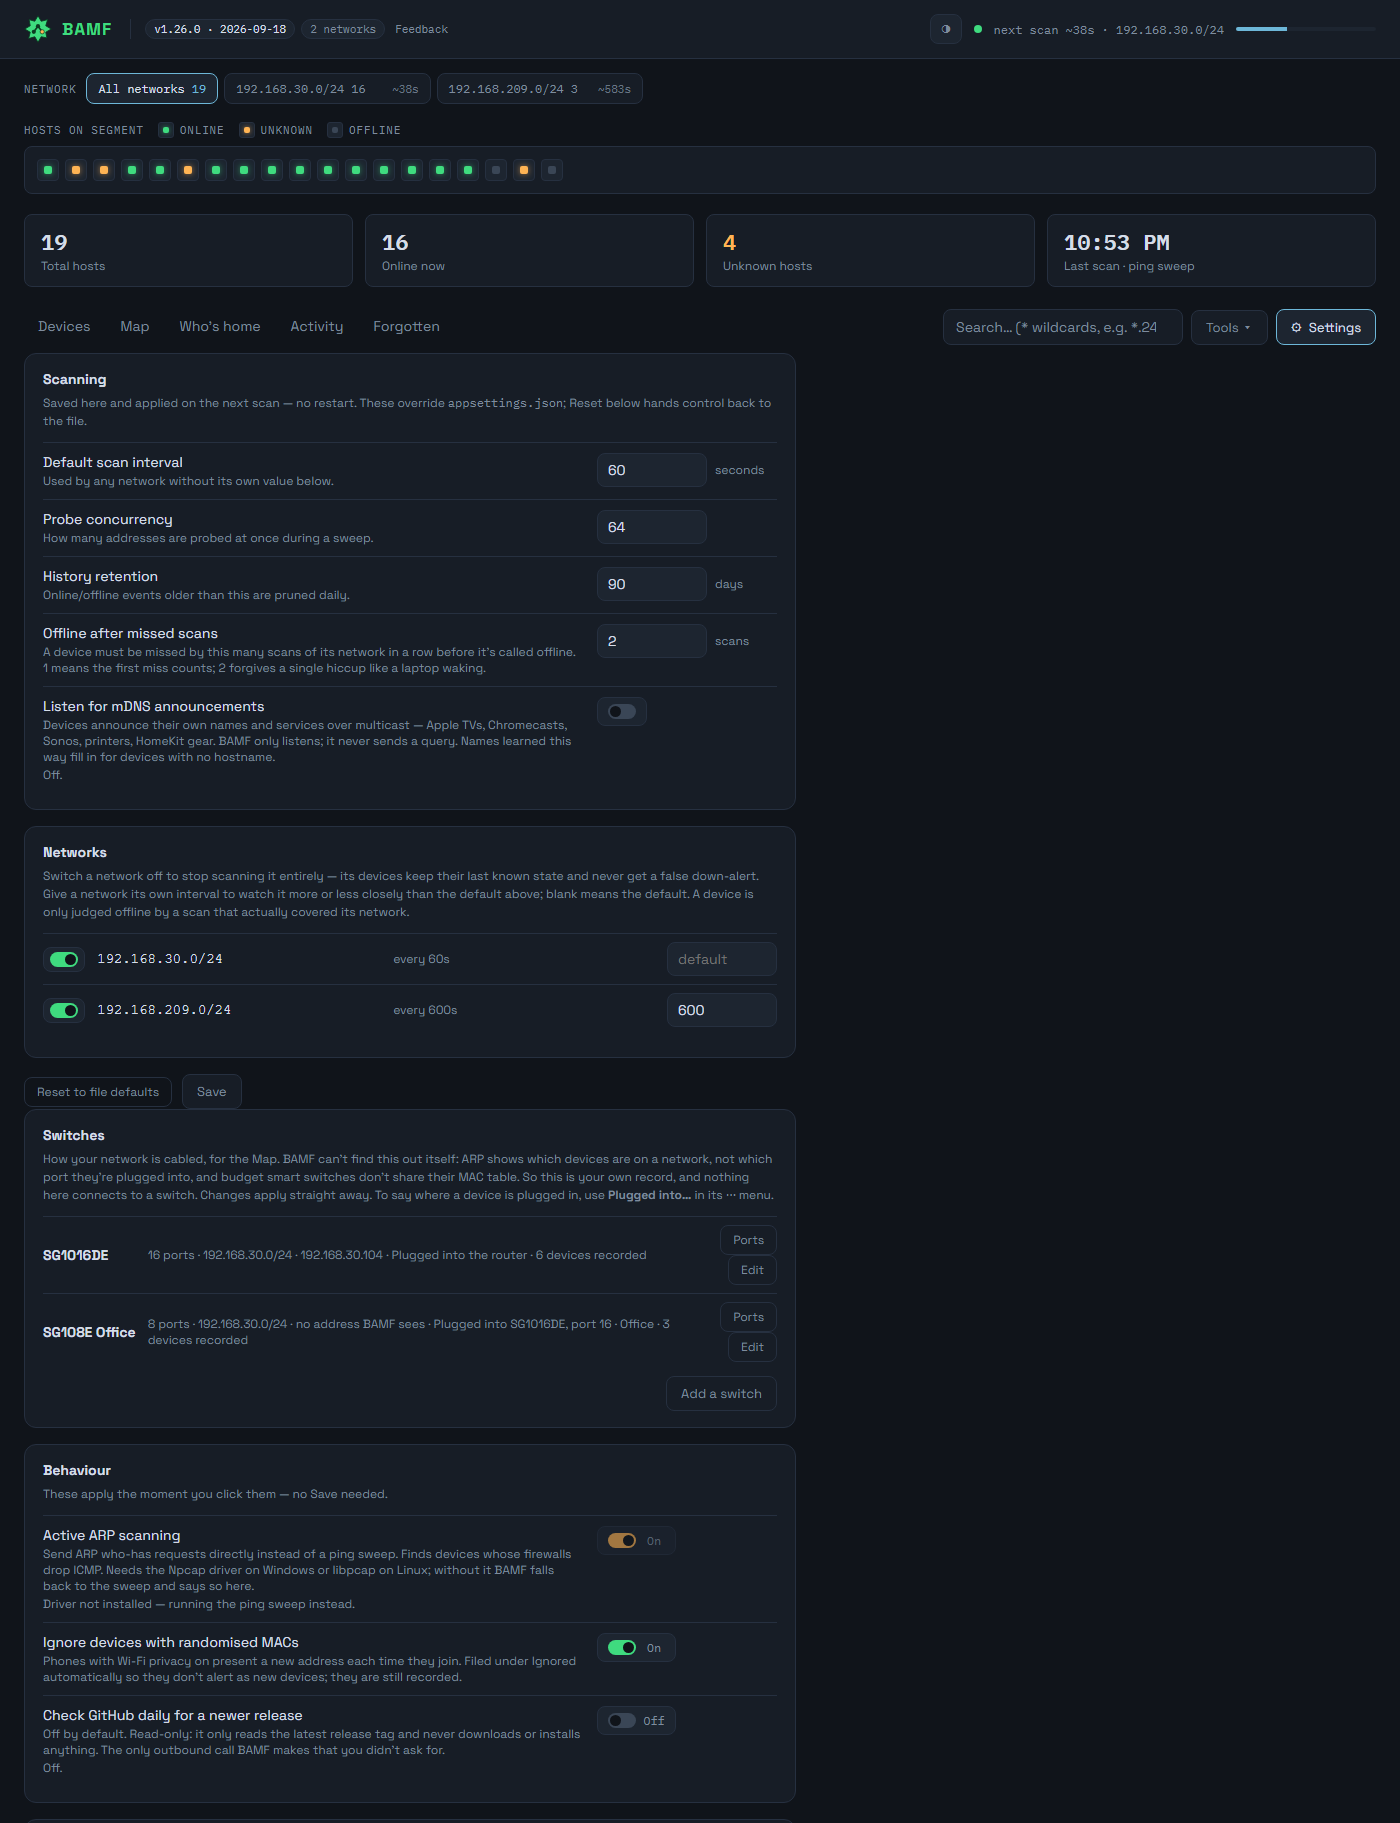
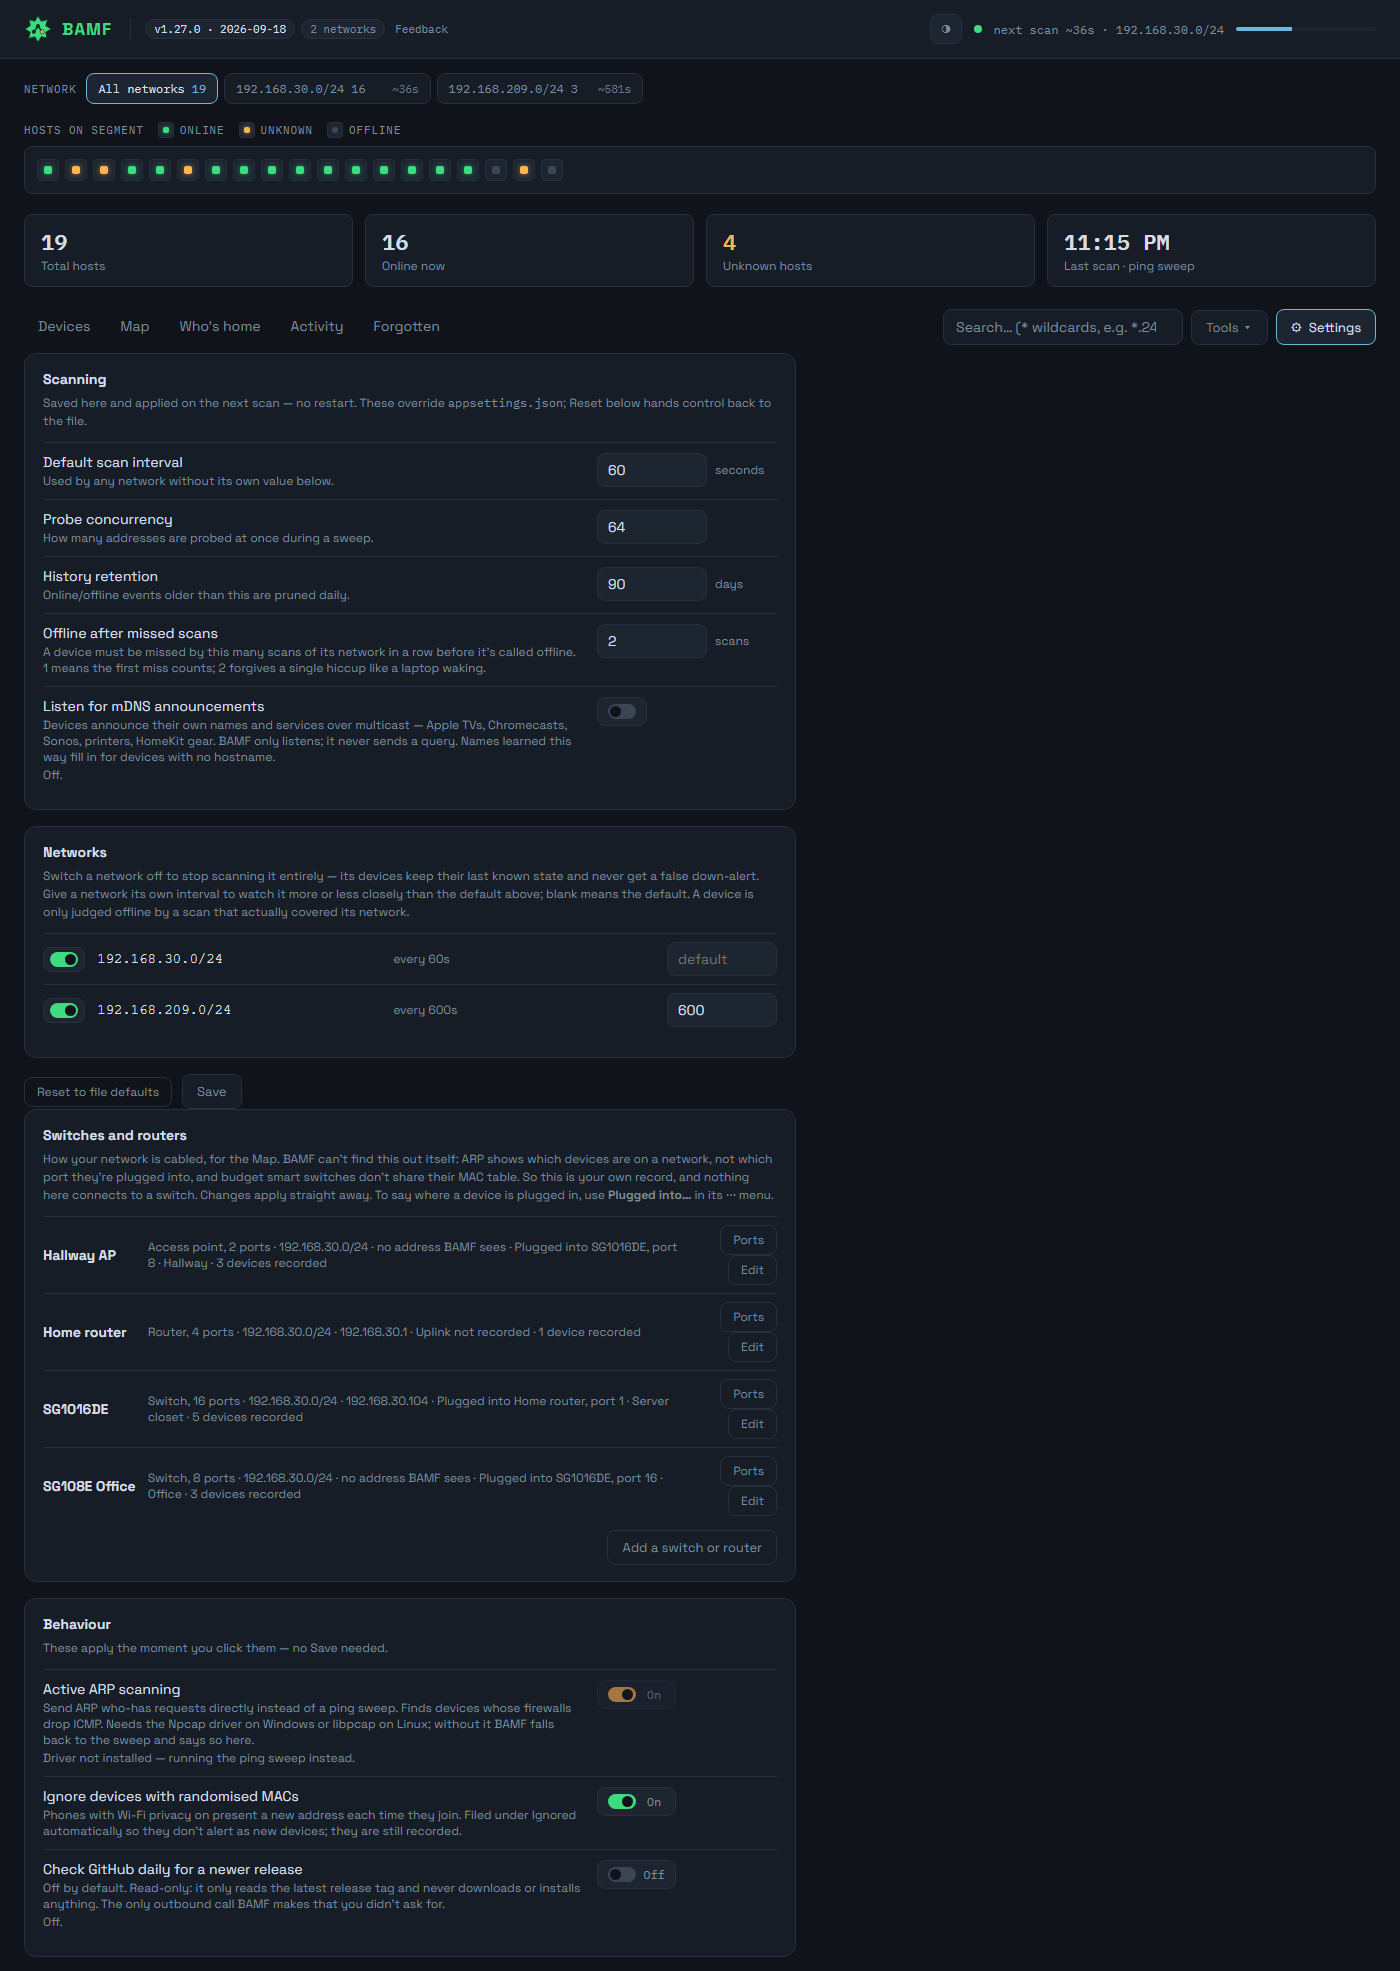
Recapture the README screenshots for 1.27.0
All three taken on the demo database with 1.27.0. The Map now shows a
recorded router at the top with a device on its own port, a switch on its
port 1, an access point with its Wi-Fi clients and an office switch further
along, arranged by dragging so the text stays readable. Settings shows the
Switches and routers card with each one's type.

diff --git a/README.md b/README.md
@@ -91,11 +91,12 @@ optional daily update check you have to switch on, and your own webhook.
 
 ### See how it's laid out
 
-![The Map tab as a network diagram: the gateway at the top with BAMF beside it, two recorded switches below it with their devices listed in port order and each port's location, an icon for each kind of device, and the Wi-Fi devices in an "On this network" box](docs/map.png)
+![The Map tab as a network diagram: the home router at the top with a device on its own port and BAMF beside it, a 16-port switch on the router's port 1 with its devices in port order and each port's location, an access point with its Wi-Fi clients, an office switch chained further along, and an icon for each kind of device](docs/map.png)
 
-The **Map** draws each network as a diagram: the router at the top, your
-switches under it, each switch's devices in port order with where the cable
-goes (`6 · Living Room`), and an icon for each kind of device. Cabling isn't
+The **Map** draws each network as a diagram: your router at the top with its own
+ports, your switches and access points under it, each one's devices in port
+order with where the cable goes (`6 · Living Room`), and an icon for each kind
+of device. Cabling isn't
 something ARP can see, so BAMF doesn't guess it. Record your switches under
 **Settings → Switches**, or just drag a device onto a switch on the map, and
 the map draws it as a cable. Anything you haven't recorded, like the Wi-Fi
